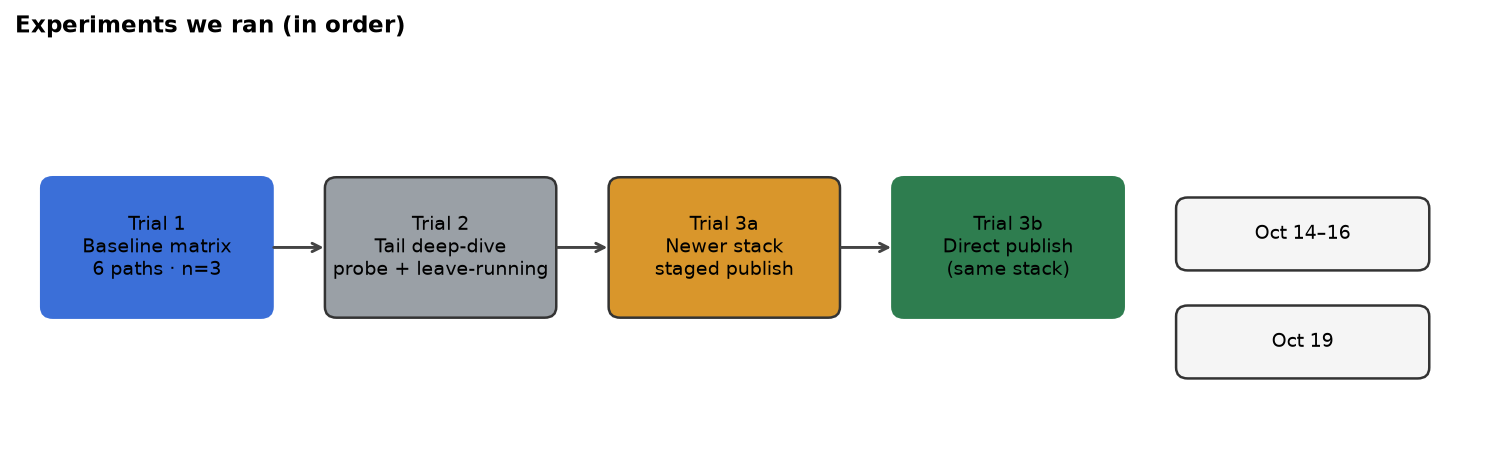
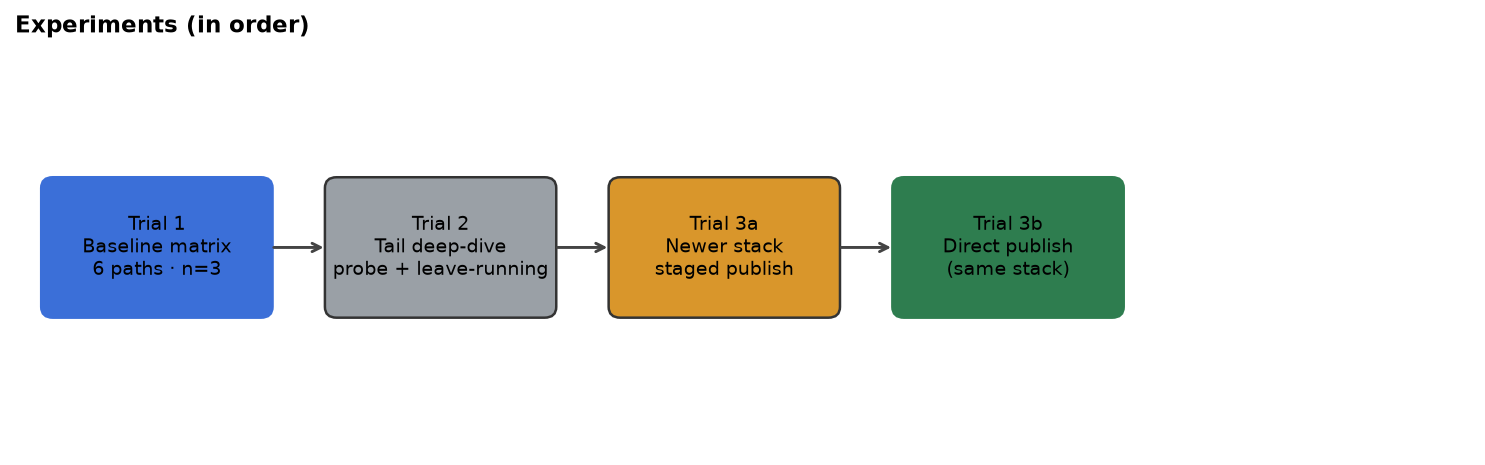
docs(benchmarks): finalize capture latency report and plot tooling
Update Trial 3b n=3 and newer-stack tail findings, neutral report tone,
and diagram/plot scripts (flow figures, docx export, caption cleanup).

diff --git a/benchmarks/results/capture-latency-report/export_to_docx.py b/benchmarks/results/capture-latency-report/export_to_docx.py
@@ -11,8 +11,8 @@ sections = [
     (
         "CRIU capture latency: where the time goes",
         None,
-        "Notes from local runs on one GPU node with vLLM (Qwen3). Goal: see where capture "
-        "seconds go and what might be worth optimizing, not pick a single best storage setup.\n\n"
+        "Local runs on one GPU node with vLLM (Qwen3). The goal is to map where capture "
+        "seconds go and what may be worth optimizing, without selecting a single best storage setup.\n\n"
         "Issue: Reduce scale-dependent CRIU capture latency.",
     ),
     (
@@ -51,7 +51,7 @@ def main():
     t = doc.add_table(rows=1 + len(TABLE_GLANCE), cols=2)
     t.style = "Table Grid"
     hdr = t.rows[0].cells
-    hdr[0].text = "What we measured"
+    hdr[0].text = "Measurement"
     hdr[1].text = "Result"
     for i, (a, b) in enumerate(TABLE_GLANCE, start=1):
         t.rows[i].cells[0].text = a
@@ -98,13 +98,31 @@ def main():
             t3.rows[i].cells[j].text = val
 
     doc.add_heading("What looks worth optimizing", level=1)
-    for item in [
-        "Post-write reap (~8 s at 14B) on the baseline path",
-        "Staged publish copy (~19–20 s) before direct publish",
-        "Buffered I/O with a 4 Gi agent",
-        "CUDA checkpoint (~3 s), secondary",
-    ]:
-        doc.add_paragraph(item, style="List Bullet")
+    opt_sections = [
+        (
+            "1. Post-write reap (~8 s at 14B)",
+            "Problem: CRIU finishes writing the image (~11 s) but the dump RPC stays open ~8 s more. "
+            "Same tail on all baseline non-broker arms; scales ~0.15 s/GB. "
+            "Optimization: decouple snapshot-ready from engine reap (lifecycle), not disk tuning.",
+        ),
+        (
+            "2. Staged publish copy (~19–20 s)",
+            "Problem: full checkpoint copy after CRIU (PageBroker or staged prepare). "
+            "Optimization: direct write/rename (Trial 3b: ~58 s → ~24 s total in one run).",
+        ),
+        (
+            "3. Buffered I/O + 4 Gi agent",
+            "Problem: writeback without RAM slows the write phase (~32 s vs ~20 s direct). "
+            "Optimization: direct I/O or larger agent for writeback.",
+        ),
+        (
+            "4. CUDA checkpoint (~3 s)",
+            "Secondary vs reap, write, and publish copy.",
+        ),
+    ]
+    for title, body in opt_sections:
+        doc.add_heading(title, level=2)
+        doc.add_paragraph(body)
 
     out = DIR / "REPORT.docx"
     doc.save(out)

diff --git a/benchmarks/results/capture-latency-report/make_flow_diagrams.py b/benchmarks/results/capture-latency-report/make_flow_diagrams.py
@@ -36,12 +36,10 @@ rounded_box(ax, (0.2, 1.0), 1.55, 1.0, "Trial 1\nBaseline matrix\n6 paths · n=3
 rounded_box(ax, (2.15, 1.0), 1.55, 1.0, "Trial 2\nTail deep-dive\nprobe + leave-running", GREY)
 rounded_box(ax, (4.1, 1.0), 1.55, 1.0, "Trial 3a\nNewer stack\nstaged publish", AMBER)
 rounded_box(ax, (6.05, 1.0), 1.55, 1.0, "Trial 3b\nDirect publish\n(same stack)", GREEN, ec=GREEN)
-rounded_box(ax, (8.0, 1.35), 1.7, 0.5, "Oct 14–16", "#f5f5f5")
-rounded_box(ax, (8.0, 0.55), 1.7, 0.5, "Oct 19", "#f5f5f5")
 arrow(ax, 1.75, 1.5, 2.15, 1.5)
 arrow(ax, 3.7, 1.5, 4.1, 1.5)
 arrow(ax, 5.65, 1.5, 6.05, 1.5)
-ax.set_title("Experiments we ran (in order)", loc="left", fontsize=11, fontweight="bold")
+ax.set_title("Experiments (in order)", loc="left", fontsize=11, fontweight="bold")
 fig.tight_layout()
 fig.savefig(f"{OUT}/0-experiment-roadmap.png", dpi=150, bbox_inches="tight")
 plt.close(fig)

diff --git a/benchmarks/results/capture-latency-report/make_plots.py b/benchmarks/results/capture-latency-report/make_plots.py
@@ -4,7 +4,7 @@ matplotlib.use("Agg")
 import matplotlib.pyplot as plt
 
 OUT = "/home/shsriram/workspace/snapshot/benchmarks/results/capture-latency-report"
-SRC = "snapshot benchmarks · dynamo-aws-dev-02 · Oct 13–16 2026"
+SRC = "snapshot benchmarks · dynamo-aws-dev-02"
 BLUE, GREY, AMBER, RED = "#3b6fd8", "#9aa0a6", "#d9962b", "#c8453b"
 
 plt.rcParams.update({"font.size": 10, "axes.spines.top": False, "axes.spines.right": False})
@@ -49,7 +49,7 @@ ax.set_xlabel("Checkpoint image size (GB)")
 ax.set_ylabel("Unfreeze → Writing stats (s)")
 ax.set_title("Post-write tail grows linearly with image size")
 ax.legend(frameon=False)
-caption(fig, f"Oct 13 direct sweep, dump.log markers. {SRC}")
+caption(fig, f"Direct sweep, dump.log markers. {SRC}")
 fig.tight_layout(rect=(0, 0.04, 1, 1))
 fig.savefig(f"{OUT}/2-tail-vs-size.png", dpi=150)
 

diff --git a/benchmarks/results/capture-latency-report/REPORT.md b/benchmarks/results/capture-latency-report/REPORT.md
@@ -1,6 +1,6 @@
 # CRIU capture latency: where the time goes
 
-Notes from local runs on one GPU node with vLLM (Qwen3). Goal: see **where capture seconds go** and **what might be worth optimizing**, not pick a single “best” storage setup.
+Summary of local runs on one GPU node with vLLM (Qwen3). The goal is to map **where capture seconds go** and **what may be worth optimizing**, without selecting a single “best” storage setup.
 
 **Issue:** Reduce scale-dependent CRIU capture latency.
 
@@ -8,17 +8,17 @@ Notes from local runs on one GPU node with vLLM (Qwen3). Goal: see **where captu
 
 ## At a glance (14B model)
 
-| What we measured | Result |
+| Measurement | Result |
 |---|---|
 | Typical capture on the fast baseline path | **~19.5 s** (median of 3 runs) |
 | Time writing the checkpoint image | **~11 s** |
-| Time after the image is finished | **~8 s** (did not change when we changed disk settings) |
+| Time after the image is finished | **~8 s** (unchanged across disk / I/O settings in the matrix) |
 | That tail vs checkpoint size | **~0.15 s per GB** across 0.6B–14B |
 | Skip killing the engine (diagnostic only) | Tail **8 s → 0 s**, total capture **20 s → 11 s** |
 | Newer agent, staged copy to disk | **~58 s** total (**~19 s** copy after CRIU) |
 | Same stack, write checkpoint directly on PVC | **~24 s** total (copy **~0 s**) |
 
-Restore (pod ready again) was **~36 s** on the baseline path and **~25–27 s** on the newer stack. We cared about capture; restore is only there for scale comparison.
+Restore (pod ready again) was **~36 s** on the baseline path and **~25–27 s** on the newer stack. Capture is the focus; restore is included only for scale comparison.
 
 ---
 
@@ -39,7 +39,7 @@ flowchart LR
 
 | Label | What changed |
 |---|---|
-| **Baseline** | Original snapshot agent we started with (Oct runs) |
+| **Baseline** | Original snapshot agent used for Trial 1 |
 | **Baseline + diagnostic** | Same agent, one-off test that does not kill the engine after dump |
 | **Newer stack** | Upgraded operator, agent, and PageBroker to current upstream main |
 | **Newer + direct publish** | Small agent change so capture writes on the PVC and commits with a rename (no big copy step) |
@@ -71,9 +71,9 @@ flowchart LR
 
 ## Trial 1: path matrix (baseline agent)
 
-**When:** Oct 14–16 · **Models:** Qwen3 0.6B and 14B · **Repeats:** 3 per arm
+**Models:** Qwen3 0.6B and 14B · **Repeats:** 3 per arm
 
-We tried six combinations of I/O mode, PageBroker, and agent memory on the same node and PVC.
+Six combinations of I/O mode, PageBroker, and agent memory were exercised on the same node and PVC.
 
 ![14B capture by path](1-phases-14b.png)
 
@@ -118,42 +118,67 @@ During the tail, CRIU was idle on CPU while the kernel sat in `wait4` on the eng
 | Tail | 7.96 s | 0.01 s |
 | CRIU dump window | 19.77 s | 11.42 s |
 
-Same bytes written either way. The **~8 s** we keep seeing lines up with **kill + kernel reap**, not extra disk I/O.
+Same bytes written either way. The **~8 s** gap aligns with **kill + kernel reap**, not extra disk I/O.
 
 ---
 
 ## Trial 3: newer agent stack
 
-**When:** Oct 19 · **Model:** 14B · **Repeats:** 1 per step (exploratory)
+**Model:** 14B · **3b:** **n=3** on **`e73a6112-direct`**
 
 Same node and workload. Compare to baseline **direct I/O, 96 Gi** from Trial 1.
 
 | Step | CRIU dump | Publish | Capture total | Restore |
 |---|---:|---:|---:|---:|
 | Baseline (Trial 1 median) | 19.5 s | rename | ~19.5 s | 36 s |
-| **3a** Newer stack, staged publish | 34.8 s | 18.8 s copy | **57.7 s** | 27 s |
-| **3b** Direct publish on PVC | 21.2 s | ~0 s | **24.2 s** | 25 s |
+| **3a** Newer stack, staged publish (n=1) | 34.8 s | 18.8 s copy | **57.7 s** | 27 s |
+| **3b** Direct publish (n=3 median) | **20.5 s** | **~2 ms** | **24 s** | **~24 s** |
 
-**3a → 3b** only changed how we publish after CRIU. Operator and PageBroker stayed on the newer build.
+**3b spread:** capture **24–25 s**; `criu_dump` **20.2–20.8 s**; publish **~2 ms** on all three runs.
 
-After direct publish, **~21 s** still sat in the CRIU dump window (write + likely the same tail we saw in Trial 1). We did not re-run the tail sampler on these builds.
+**Tail on newer stack (n=1 sampler):** write finished ~**12 s** into CRIU; **`do_wait` ~8 s** after that (same post-write window as baseline).
 
 ---
 
 ## What looks worth optimizing
 
-1. **Post-write reap (~8 s at 14B)** – largest fixed chunk on the baseline path; diagnostic says it is not image I/O.
-2. **Staged publish copy (~19–20 s)** – shows up with PageBroker on the baseline agent and with the stock newer agent until direct publish.
-3. **Buffered I/O on a small agent** – big penalty when the agent cannot hold page cache.
-4. **CUDA checkpoint (~3 s)** – smaller than the two items above.
+### 1. Post-write reap (~8 s at 14B on the baseline path)
 
-Open questions: when can we mark a snapshot “ready” without waiting on reap; whether direct publish should be the default on large checkpoints; more repeats on **3b** (n≥3) and a tail probe on the newer stack.
+**Problem:** CRIU is already done writing the checkpoint file (~11 s), but the agent still waits ~8 s inside the dump before capture finishes. In logs this is the gap between “image complete” and CRIU writing stats. The same ~8 s tail appeared on every baseline arm without PageBroker staging, independent of direct vs buffered I/O and agent memory limit. It grows about **0.15 s per GB** of checkpoint size.
+
+**What is going on:** During that window CRIU is not doing useful CPU work on the image. The engine was killed after dump and the kernel is finishing teardown (`wait4` on the process). A one-off test that skipped the kill removed almost all of this gap while writing the same bytes at the same rate, so this time is not “slow disk.”
+
+**What could be optimized:** Treat “checkpoint bytes are on the PVC” separately from “engine is fully reaped.” If a snapshot can be marked ready when the image is durable, user-facing capture need not wait on `wait4`. That is a lifecycle/contract change, not a tuning knob. Longer term, anything that avoids kill-and-wait on supported paths would attack the same cost (the leave-running run was only a diagnostic, not a shipping mode).
+
+### 2. Staged publish copy (~19–20 s at 14B)
+
+**Problem:** After CRIU returns, the stack sometimes copies the entire checkpoint from a temporary location to the PVC before flipping to the new version. That copy showed up as **~20 s** with PageBroker on the baseline agent and **~19 s** on one run with the newer agent’s default staged prepare.
+
+**What is going on:** The copy is plain data movement, not CRIU getting slower. Total capture became **~35 s** (broker + copy on baseline) or **~58 s** (newer agent + copy) even when the CRIU write itself was similar to the fast path.
+
+**What could be optimized:** Write the checkpoint where it will live (direct I/O to the PVC, or prepare beside the final path and commit with a rename). Trial **3b** cut publish to ~0 s and total capture to **~24 s** in one 14B run versus **~58 s** with copy. Defaulting to direct prepare on large checkpoints is the concrete fix prototyped in Trial **3b**.
+
+### 3. Buffered I/O on a small agent (~9 s extra at 14B vs direct)
+
+**Problem:** With buffered (page-cache) I/O and only **4 Gi** on the agent pod, 14B capture was **~32 s** versus **~20 s** on direct I/O with the same PVC. Most of the gap is a slower write phase, not the post-write tail.
+
+**What is going on:** The agent pod does not have enough RAM to cache large writeback traffic efficiently, so the kernel keeps flushing and the effective write rate drops (~2.2 GB/s vs ~4.7 GB/s direct on the test node).
+
+**What could be optimized:** Direct I/O is preferable for large checkpoints; writeback requires sufficient agent memory. Writeback should not be paired with a tiny agent memory limit on large models.
+
+### 4. CUDA checkpoint prep (~3 s at 14B)
+
+**Problem:** Before CRIU runs, the agent freezes GPU/CUDA state. That step was about **3 s** at 14B on baseline and about **2.6 s** on one newer-stack run.
+
+**What is going on:** Real work, but smaller than the post-write reap and the image write on the baseline path, and much smaller than a staged publish copy when that path is enabled.
+
+**What could be optimized:** Worth tracking, but likely second priority until reap and publish paths are addressed. Any CUDA-side improvements would shave seconds, not tens of seconds.
 
 ---
 
 ## Caveats
 
-- Trial 1: **n=3**; tail diagnostic and Trial 3: **n=1**.
+- Trial 1 and **3b:** **n=3**; **3a** and tail sampler on newer stack: **n=1** each.
 - Leave-running is **not** a supported production mode; it only isolates the tail.
 - Raw JSON and logs live under `benchmarks/results/` on the machine that ran the tests (not all checked into git).
 

diff --git a/benchmarks/results/capture-latency-report/REPORT_GDOC.md b/benchmarks/results/capture-latency-report/REPORT_GDOC.md
@@ -1,6 +1,6 @@
 # CRIU capture latency: where the time goes
 
-Notes from local runs on one GPU node with vLLM (Qwen3). Goal: see where capture seconds go and what might be worth optimizing, not pick a single best storage setup.
+Summary of local runs on one GPU node with vLLM (Qwen3). The goal is to map where capture seconds go and what may be worth optimizing, without selecting a single best storage setup.
 
 Issue: Reduce scale-dependent CRIU capture latency.
 
@@ -8,17 +8,17 @@ Issue: Reduce scale-dependent CRIU capture latency.
 
 ## At a glance (14B model)
 
-| What we measured | Result |
+| Measurement | Result |
 |---|---|
 | Typical capture on the fast baseline path | ~19.5 s (median of 3 runs) |
 | Time writing the checkpoint image | ~11 s |
-| Time after the image is finished | ~8 s (did not change when we changed disk settings) |
+| Time after the image is finished | ~8 s (unchanged across disk / I/O settings in the matrix) |
 | That tail vs checkpoint size | ~0.15 s per GB across 0.6B–14B |
 | Skip killing the engine (diagnostic only) | Tail 8 s → 0 s, total capture 20 s → 11 s |
 | Newer agent, staged copy to disk | ~58 s total (~19 s copy after CRIU) |
 | Same stack, write checkpoint directly on PVC | ~24 s total (copy ~0 s) |
 
-Restore (pod ready again) was ~36 s on the baseline path and ~25–27 s on the newer stack. We cared about capture; restore is only there for scale comparison.
+Restore (pod ready again) was ~36 s on the baseline path and ~25–27 s on the newer stack. Capture is the focus; restore is included only for scale comparison.
 
 ---
 
@@ -26,7 +26,7 @@ Restore (pod ready again) was ~36 s on the baseline path and ~25–27 s on the n
 
 ![Experiment roadmap](https://raw.githubusercontent.com/sheetal104/snapshot/exp/criu-capture-latency/benchmarks/results/capture-latency-report/0-experiment-roadmap.png)
 
-1. **Trial 1** – Baseline agent, six storage/config arms, three runs each (Oct 14–16).
+1. **Trial 1** – Baseline agent, six storage/config arms, three runs each.
 2. **Trial 2** – Tail deep-dive: sampler plus leave-running diagnostic on the same baseline path.
 3. **Trial 3a** – Newer upstream stack; publish step copies checkpoint to PVC (~58 s capture on one 14B run).
 4. **Trial 3b** – Same stack with direct publish to PVC (~24 s on one 14B run).
@@ -35,7 +35,7 @@ Restore (pod ready again) was ~36 s on the baseline path and ~25–27 s on the n
 
 | Label | What changed |
 |---|---|
-| Baseline | Original snapshot agent we started with |
+| Baseline | Original snapshot agent used for Trial 1 |
 | Baseline + diagnostic | Same agent; one-off test that does not kill the engine after dump |
 | Newer stack | Upgraded operator, agent, and PageBroker to current upstream main |
 | Newer + direct publish | Agent writes checkpoint on the PVC and commits with a rename |
@@ -62,7 +62,7 @@ Freeze → write checkpoint pages → kill engine and wait on kernel → publish
 
 ## Trial 1: path matrix (baseline agent)
 
-When: Oct 14–16. Models: Qwen3 0.6B and 14B. Repeats: 3 per arm.
+Models: Qwen3 0.6B and 14B. Repeats: 3 per arm.
 
 ![14B capture by path](https://raw.githubusercontent.com/sheetal104/snapshot/exp/criu-capture-latency/benchmarks/results/capture-latency-report/1-phases-14b.png)
 
@@ -109,31 +109,58 @@ Same bytes written either way. The ~8 s lines up with kill plus kernel reap, not
 
 ## Trial 3: newer agent stack
 
-When: Oct 19. Model: 14B. Repeats: 1 per step.
+Model: 14B.
 
-| Step | CRIU dump | Publish | Capture total | Restore |
+| Step | CRIU dump | Publish | Capture total | Restore (snapshot + wake) |
 |---|---:|---:|---:|---:|
-| Baseline (Trial 1 median) | 19.5 s | rename | ~19.5 s | 36 s |
-| 3a Newer stack, staged publish | 34.8 s | 18.8 s copy | 57.7 s | 27 s |
-| 3b Direct publish on PVC | 21.2 s | ~0 s | 24.2 s | 25 s |
+| Baseline (Trial 1 median) | 19.5 s | rename | ~19.5 s | ~36 s |
+| 3a Newer stack, staged publish (n=1) | 34.8 s | 18.8 s copy | 57.7 s | ~27 s |
+| 3b Direct publish (n=3 median) | **20.5 s** | **~2 ms** | **24 s** | **~24 s** (21+3 s) |
 
-3a → 3b only changed how we publish after CRIU. After direct publish, ~21 s still sat in the CRIU dump window. We did not re-run the tail sampler on these builds.
+3a → 3b changed only the publish path after CRIU. **3b repeats (same node, `e73a6112-direct`):** capture **24–25 s**, `criu_dump` **20.2–20.8 s**, publish **~2 ms** each time.
+
+**Tail on newer stack (n=1, sampler on agent during 3b-class run):** image write finished ~**12 s** into CRIU; CRIU stayed in **`do_wait` / wait4** for another ~**8 s** before exit (~**51 GB** written). Same shape as baseline Trial 2.
 
 ---
 
 ## What looks worth optimizing
 
-1. Post-write reap (~8 s at 14B) – largest fixed chunk on the baseline path.
-2. Staged publish copy (~19–20 s) – PageBroker on baseline agent and stock newer agent until direct publish.
-3. Buffered I/O on a small agent – big penalty when the agent cannot hold page cache.
-4. CUDA checkpoint (~3 s) – smaller than the two items above.
+### 1. Post-write reap (~8 s at 14B on the baseline path)
 
-Open questions: snapshot ready vs reap; default direct publish on large checkpoints; more repeats on 3b and tail probe on newer stack.
+**Problem:** CRIU is already done writing the checkpoint file (~11 s), but the agent still waits ~8 s inside the dump before capture finishes. In logs this is the gap between “image complete” and CRIU writing stats. The same ~8 s tail appeared on every baseline arm without PageBroker staging, independent of direct vs buffered I/O and agent memory limit. It grows about 0.15 s per GB of checkpoint size.
+
+**What is going on:** During that window CRIU is not doing useful CPU work on the image. The engine was killed after dump and the kernel is finishing teardown (wait4 on the process). A one-off test that skipped the kill removed almost all of this gap while writing the same bytes at the same rate, so this time is not “slow disk.”
+
+**What could be optimized:** Treat “checkpoint bytes are on the PVC” separately from “engine is fully reaped.” If a snapshot can be marked ready when the image is durable, user-facing capture need not wait on wait4. That is a lifecycle/contract change, not a tuning knob. Longer term, anything that avoids kill-and-wait on supported paths would attack the same cost (the leave-running run was only a diagnostic, not a shipping mode).
+
+### 2. Staged publish copy (~19–20 s at 14B)
+
+**Problem:** After CRIU returns, the stack sometimes copies the entire checkpoint from a temporary location to the PVC before flipping to the new version. That copy showed up as ~20 s with PageBroker on the baseline agent and ~19 s on one run with the newer agent’s default staged prepare.
+
+**What is going on:** The copy is plain data movement, not CRIU getting slower. Total capture became ~35 s (broker + copy on baseline) or ~58 s (newer agent + copy) even when the CRIU write itself was similar to the fast path.
+
+**What could be optimized:** Write the checkpoint where it will live (direct I/O to the PVC, or prepare beside the final path and commit with a rename). Trial 3b cut publish to ~0 s and total capture to ~24 s in one 14B run versus ~58 s with copy. Defaulting to direct prepare on large checkpoints is the concrete fix prototyped in Trial 3b.
+
+### 3. Buffered I/O on a small agent (~9 s extra at 14B vs direct)
+
+**Problem:** With buffered (page-cache) I/O and only 4 Gi on the agent pod, 14B capture was ~32 s versus ~20 s on direct I/O with the same PVC. Most of the gap is a slower write phase, not the post-write tail.
+
+**What is going on:** The agent pod does not have enough RAM to cache large writeback traffic efficiently, so the kernel keeps flushing and the effective write rate drops (~2.2 GB/s vs ~4.7 GB/s direct on the test node).
+
+**What could be optimized:** Direct I/O is preferable for large checkpoints; writeback requires sufficient agent memory. Avoid pairing writeback with a tiny agent memory limit on big models.
+
+### 4. CUDA checkpoint prep (~3 s at 14B)
+
+**Problem:** Before CRIU runs, the agent freezes GPU/CUDA state. That step was about 3 s at 14B on baseline and about 2.6 s on one newer-stack run.
+
+**What is going on:** Real work, but smaller than the post-write reap and the image write on the baseline path, and much smaller than a staged publish copy when that path is enabled.
+
+**What could be optimized:** Worth tracking, but likely second priority until reap and publish paths are addressed. Any CUDA-side improvements would shave seconds, not tens of seconds.
 
 ---
 
 ## Caveats
 
-- Trial 1: n=3; tail diagnostic and Trial 3: n=1.
+- Trial 1 and Trial 3b: n=3; Trial 3a and newer-stack tail sampler: n=1 each.
 - Leave-running is not supported production behavior.
 - Raw JSON and logs under benchmarks/results/ on the run machine.
